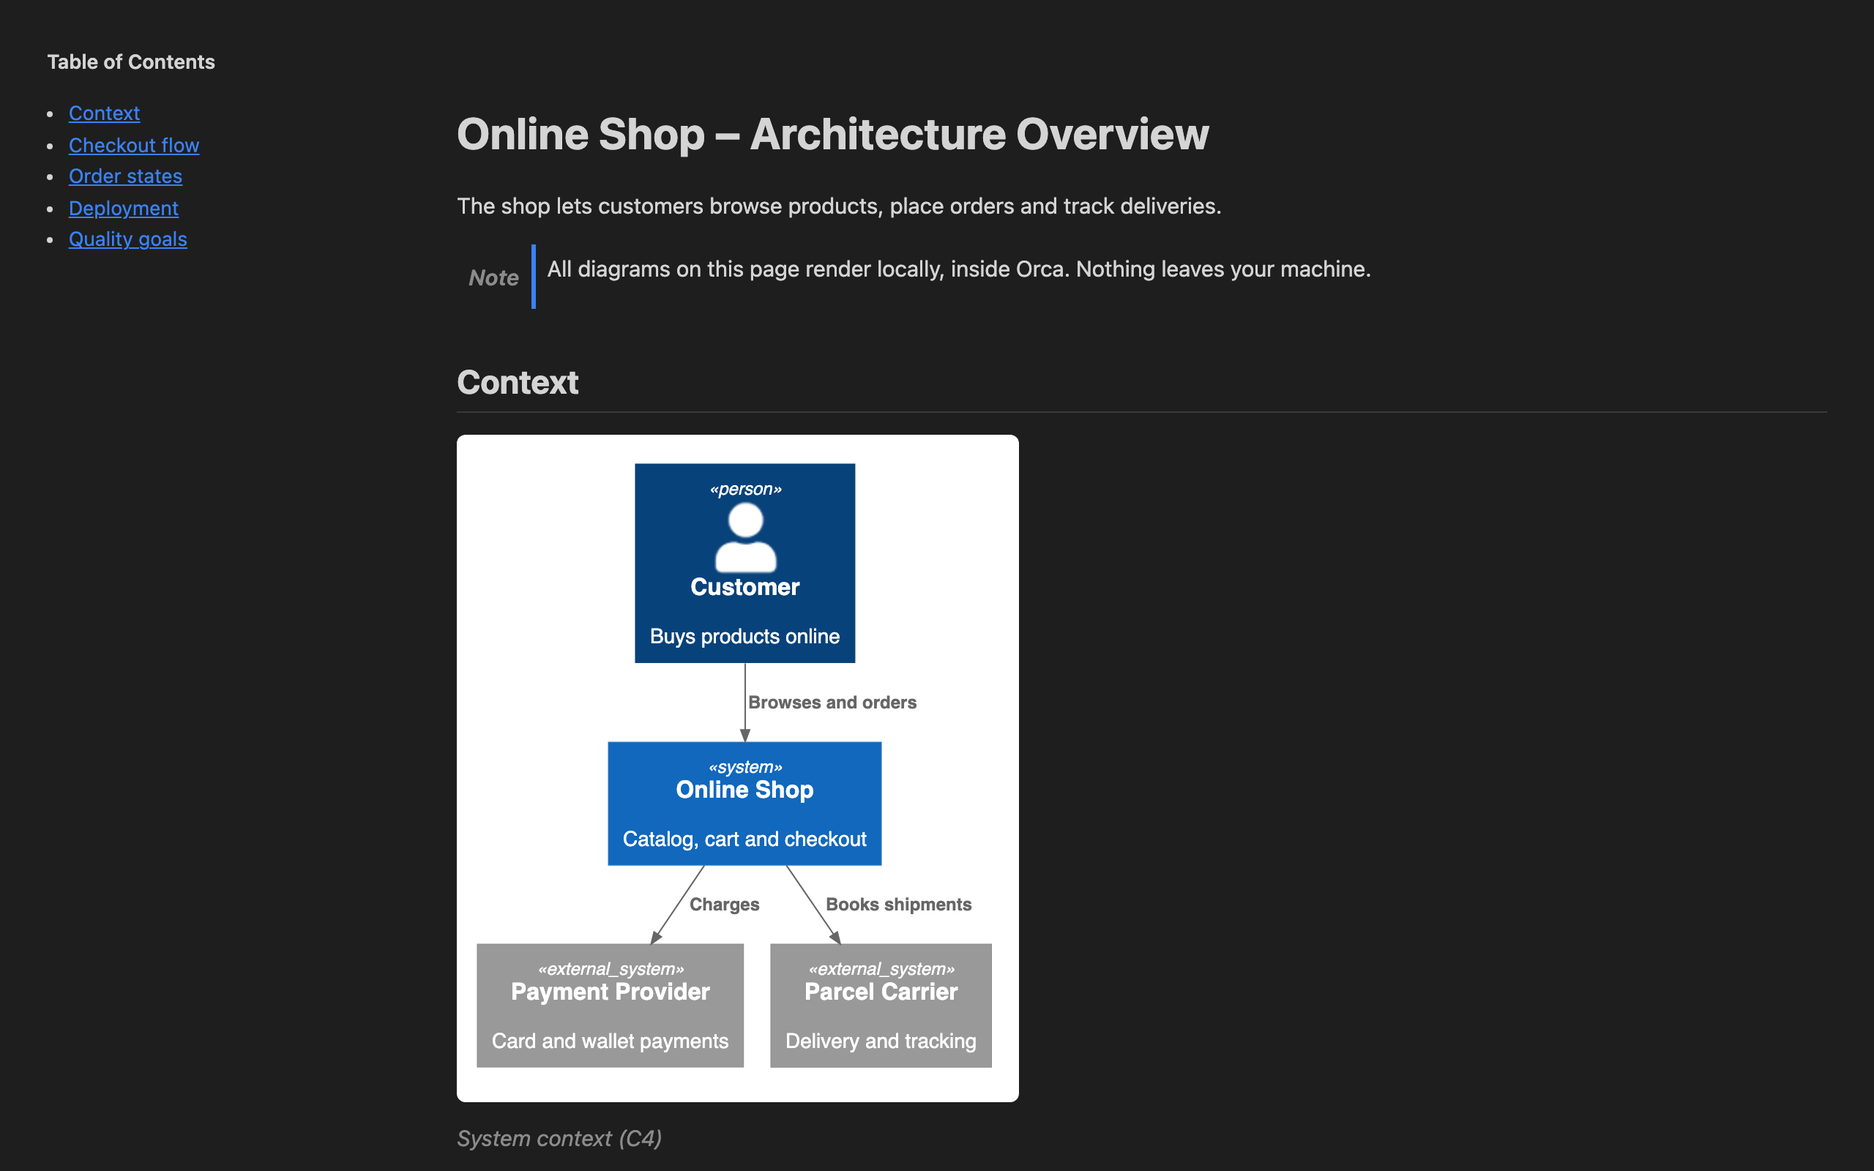
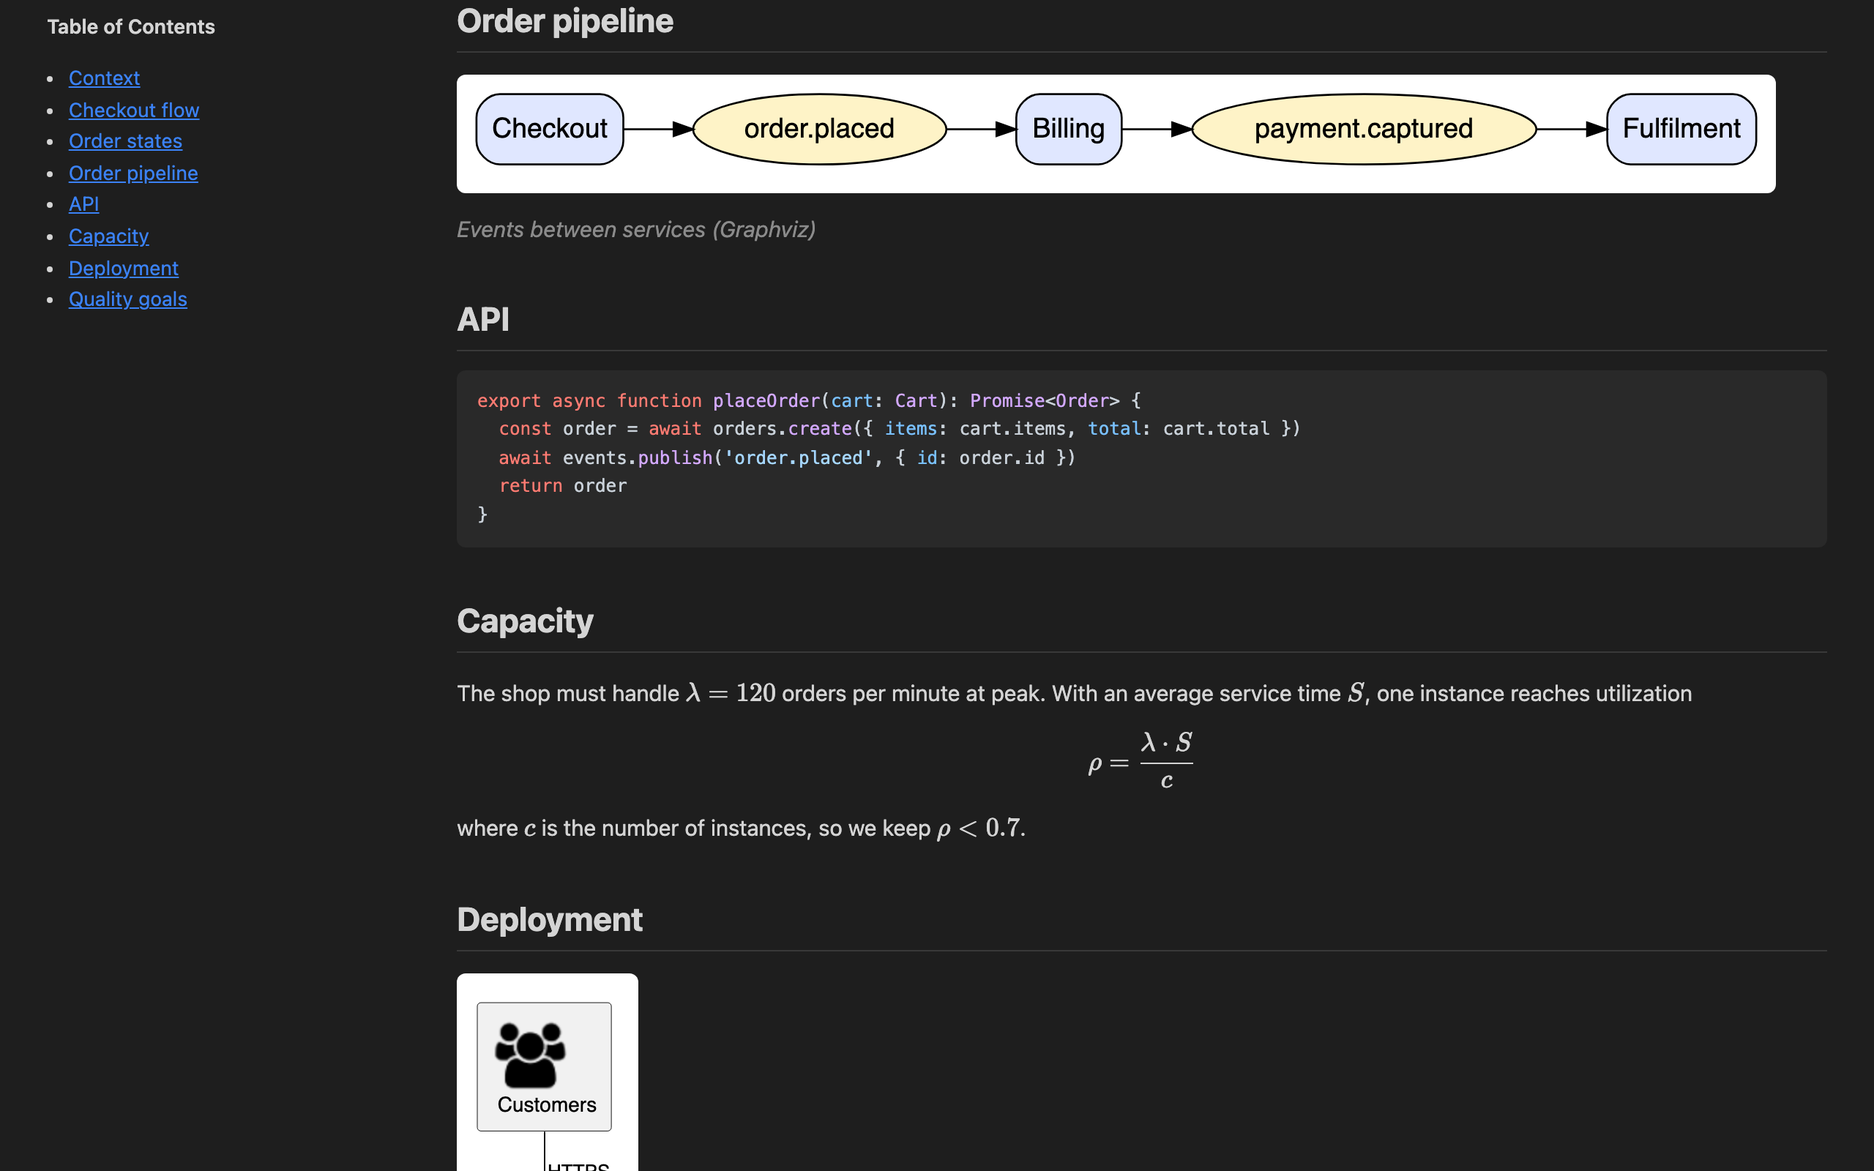
mise tasks for development; demo and spec cover the new formats
- mise.toml: setup, build, test, media and fetch-stdlib tasks
- docs/demo.adoc: Graphviz, highlighted code and math; the dark
  screenshot shows them
- SPEC.md rewritten to describe the current state and decisions

diff --git a/SPEC.md b/SPEC.md
@@ -2,111 +2,207 @@
 
 ## Goal
 
-An Orca plugin that renders AsciiDoc files as easily as possible, including inline PlantUML and Mermaid diagrams, fully offline.
+An Orca plugin that renders AsciiDoc files as easily as possible, with inline diagrams (PlantUML, Mermaid, Graphviz), highlighted code and math. It works fully offline: no server, no Java, and no diagram source leaves the machine.
 
 ## Identity & distribution
 
-- Name: **AsciiDoc Preview – PlantUML & Mermaid**, id `asciidoc-diagrams`, publisher `schowave`
-- License: MIT. Public GitHub repo with topic `orca-plugin`; later an Orca catalog entry
-- `manifestVersion: 2`, `execution: "sandboxed-ui"`, `pluginApi: 1`, `engines.orca: ">=1.4.245"` (custom editors exist since 1.4.245; keep `publisher` in the manifest)
-- Independent of the existing `Mbirepinte/Orca-asciidoc-viewer`, which has no diagram support
+- **Plugin:**
+  - Name: **AsciiDoc Preview – PlantUML & Mermaid**
+  - id `asciidoc-diagrams`; publisher `schowave`, the repository owner
+  - Install key `schowave.asciidoc-diagrams`
+- **Repository:** MIT license, public `github.com/schowave/orca-asciidoc-diagrams`, GitHub topic `orca-plugin`
+- **Manifest:**
+  - `manifestVersion: 2`, `execution: "sandboxed-ui"`, `engines.orca: ">=1.4.245"`, because custom editors exist since 1.4.245
+  - Keep `publisher` while supporting 1.4.245; it can be omitted only from `>=1.4.246`
+- **Layout:** the plugin lives at the repository root, because Orca installs from a Git commit:
+  - `orca-plugin.json`
+  - `editor/index.html`: committed build output
+  - `images/`, `LICENSE`, `THIRD_PARTY_NOTICES.md`
+  - `dist/plugin` mirrors only these files, for Orca's development folders
+- **Distribution:**
+  - **Community catalog / onorca.dev:** it is generated automatically from the topic plus the newest `vX.Y.Z` tag, pinned to that commit and its content hash. There is no PR. Orca auto-updates a release once it has been listed for 12 h. A size review may hold large plugins.
+  - **Git URL install:** `https://github.com/schowave/orca-asciidoc-diagrams#vX.Y.Z`. Orca requires an explicit `#ref` (a tag or a commit); such installs are shown as *Unverified*.
+- **Relation to `Mbirepinte/Orca-asciidoc-viewer`:** independent of it. That plugin has no diagram support; diagrams are the distinguishing feature here.
 
-## Scope (v1)
+## Features
 
-- `contributes.customEditors` for `.adoc`, `.asciidoc` and `.asc`, with `priority: "default"` and `contentKind: "text"`
-- **Read-only view.** Editing happens in Orca's Source view (view toggle). The plugin never calls `orca.document.applyEdit`
-- Live re-render on `orca.document.onDidChange` (works on unsaved changes too):
-  - Debounce of about 250 ms
+- **Opening files:**
+  - `contributes.customEditors` for `.adoc`, `.asciidoc` and `.asc`
+  - `priority: "default"`, `contentKind: "text"`
+- **Read-only:**
+  - Editing happens in Orca's Source view (view toggle)
+  - The plugin never calls `orca.document.applyEdit`
+- **Live updates:** `orca.document.onDidChange` triggers a re-render, including on unsaved changes
+  - Debounced by about 250 ms
+  - Versions already rendered are skipped
   - The scroll position is preserved
-  - Rendered diagrams are cached by source hash
-- AsciiDoc rendering with **asciidoctor.js 4.x**
-- Diagram syntax as in asciidoctor-diagram: `[plantuml]` and `[mermaid]` blocks (`----` delimited, optional title and attributes). `[source,plantuml]` and `[source,mermaid]` are shown as plain code
-- **PlantUML:** `@plantuml/core` (≥ 1.2026.6, MIT; the TeaVM JS build)
-  - Uses the **Smetana layout only**. Do **not** bundle `viz-global.js`: its wasm init fails under the CSP and then breaks graph diagrams instead of falling back to Smetana
-  - Stdlib bundles **C4, kubernetes, k8s, azure, archimate, eip, DomainStory, office, logos and tupadr3** are embedded. They are served lazily via `PLANTUML_STDLIB_LOADER` (decoded only when a diagram includes them). `gcp`, `elastic` and `edgy` are excluded because they declare no license; AWS (`awslib14`, 4.7 MB gzip) does not fit
-  - Any other stdlib produces a clear "library not bundled" error
-- **Mermaid:** 12.x, embedded compressed
-- **Diagram errors:** an error box with the message and the diagram source in its place; the rest of the document still renders
+  - Diagrams are cached by source; failures are cached too
+- **AsciiDoc:** asciidoctor.js 4 in `safe: secure` mode
+- **Diagrams:** asciidoctor-diagram block syntax, `----` delimited, with optional title and attributes. `[source,<lang>]` stays code.
+  - `[plantuml]`:
+    - Rendered by `@plantuml/core` (≥ 1.2026.6, MIT, TeaVM JS build), with the **Smetana layout only**
+    - `@startuml`/`@enduml` are optional
+  - `[mermaid]`: Mermaid 12, `securityLevel: 'strict'`, `suppressErrorRendering: true`
+  - `[graphviz]`:
+    - viz.js 2.1.2: Graphviz 2.40.1 compiled to asm.js, so no wasm is needed
+    - Optional `layout=` (`dot`, `neato`, `fdp`, `sfdp`, `twopi`, `circo`, `osage`, `patchwork`)
+- **PlantUML stdlib:**
+  - Bundled: C4, kubernetes, k8s, azure, archimate, eip, DomainStory, office, logos, tupadr3
+  - Loaded lazily via `PLANTUML_STDLIB_LOADER`
+  - Others produce a clear "library not bundled" error
+  - Excluded:
+    - `gcp`, `elastic`, `edgy`: no declared license
+    - `awslib14`: about 3 MiB, too large for the default build
+  - **Custom builds:** `PLANTUML_STDLIB=a,b` overrides `scripts/stdlib-list.mjs` for `fetch-stdlib.mjs` and `build.mjs`
+- **Syntax highlighting:**
+  - highlight.js with its common languages, applied to `pre.highlight > code[data-lang]`
+  - Asciidoctor runs with `source-highlighter=highlight.js`
+  - GitHub light and dark themes, scoped to `html.dark`
+- **Math (`:stem:`):**
+  - KaTeX, with its woff2 fonts inlined as `data:` URIs
+  - asciimath goes through asciimath2tex first
+  - Delimiters as Asciidoctor emits them: `\$…\$` (asciimath), `\(…\)` and `\[…\]` (latexmath)
+  - Inside `.stemblock` the output is display mode
+- **Diagram errors:** an error box (monospace, line breaks kept) followed by the source. The rest of the document still renders.
 - **Theme:**
-  - The document follows Orca's theme via the `--orca-*` CSS vars and `orca.on('theme')`
-  - Mermaid uses `dark` or `default` to match
-  - PlantUML stays light on its own light surface
-- **TOC:** only when the document sets `:toc:`. With `toc: left` it is a sticky sidebar; otherwise it stays inline
+  - The document follows Orca's theme (`--orca-*` vars, `orca.on('theme')`), and Mermaid follows with `dark`/`default`
+  - PlantUML and Graphviz sit on a light card
+- **Layout:**
+  - Wide diagrams scale down to the column width; small ones are never scaled up
+  - Table cells are left-aligned and respect the `halign-*`/`valign-*` classes
+- **TOC:** only with `:toc:`. `toc: left`/`right` renders a sticky sidebar, which stacks on narrow widths.
 - **Links:**
-  - Internal anchors work
-  - External links and `xref:` to other files are displayed with their target in a tooltip but cannot be followed (the sandbox has no popups and the host API has no open method). This is documented
-- **Wide diagrams** scroll horizontally. No zoom, fullscreen or export in v1
+  - Orca's frame shell cancels every click on `<a href>`. So `href` moves to `data-href`:
+    - Internal anchors (`<<id>>`, TOC) scroll to their target, by click or Enter
+    - External links and `xref:` to other files show their target as a tooltip only
+- **Not in scope:** zoom, fullscreen and export
 
 ## Security
 
-- Sanitize the rendered HTML with DOMPurify. Passthrough HTML is allowed; scripts and event handlers are removed. Reason: a script in a foreign `.adoc` could otherwise call `applyEdit` and modify the open file
-- The plugin never calls `applyEdit`
+- The rendered HTML is sanitized with DOMPurify. Passthrough HTML is allowed; scripts and event handlers are removed. Without this, a script in a foreign `.adoc` could call `applyEdit` and modify the open file.
+- The plugin never calls `applyEdit`.
+- Payloads are executed as inline scripts. They come only from the plugin's own build, never from the document.
 
-## Known limitations (documented in the README)
+## Known limitations
 
-The frame has no file system, no network and no wasm. As a result:
+The frame has no file system, no network and no wasm.
 
-- `include::` directives render as a visible placeholder ("include not resolvable: <path>")
-- Relative images render as a placeholder with their alt text. `data:` images and rendered diagrams work
-- PlantUML `!include` of local files is unsupported
+| What | Behaviour |
+| --- | --- |
+| `include::` | A visible placeholder ("Include not resolvable in the preview: <path>"), via an include processor |
+| Images | Anything that is not a `data:` URI becomes a placeholder showing the alt text and path |
+| PlantUML `!include` of local files | Unsupported |
+| Libraries | Cannot be installed at runtime: the frame has no storage, and frames of different plugins cannot talk to each other. A future Orca frame↔worker channel (stablyai/orca#36429, panels only so far) could change that |
 
-## Platform constraints (verified against Orca 1.4.245 source)
+## Platform constraints (verified against Orca 1.4.245)
 
-- The frame is `<iframe sandbox="allow-scripts">` with this CSP:
+- **Frame:** `<iframe sandbox="allow-scripts">` (srcdoc) with this CSP:
   `default-src 'none'; connect-src 'none'; script-src 'unsafe-inline'; style-src 'unsafe-inline'; img-src data:; font-src data:; base-uri 'none'; form-action 'none'`
-- What is blocked:
+- **Blocked:**
   - `eval` and `new Function`
   - WebAssembly
   - `fetch` and Workers
   - External scripts
-- So all JS and CSS must be inlined into **one** entry HTML
-- Limits: 10 MiB for the entry HTML, 50 MiB and 2000 files for the plugin
-- Frame API:
-  - `orca.document.get()` returns `{ version, readOnly, content: { kind: 'text', text } }`
-  - `orca.document.onDidChange(cb)`
+  - `DecompressionStream('brotli')`; only gzip and deflate are available
+- **Allowed:**
+  - Inline `<script>` elements, including ones inserted at runtime
+  - `Blob`, `Response`, `DecompressionStream('gzip')`
+  - `data:` fonts and images
+- **Limits:**
+  - 10 MiB for the entry HTML
+  - 50 MiB and 2000 files for the whole plugin
+  - Listing images: icon ≥ 128 px, square, ≤ 256 KB; cover ≥ 800×500, ≤ 1 MB; screenshots ≥ 1280×800, ≤ 1.5 MB
+  - Orca shows the cover cropped to a wide banner, roughly its middle third
+- **Frame API:**
+  - `orca.document.get()`
+  - `orca.document.onDidChange(cb)`: delivers the current document right away, then each change
   - `orca.on('theme', cb)`
+  - The theme also arrives as the `light`/`dark` class on `<html>`
 
-## Tech & tests
+## Architecture
 
-- TypeScript plus esbuild produce a single inlined `editor/index.html`
-- Library versions are pinned
-- The build fails if the entry HTML exceeds **9.5 MiB** (estimate: ~8–9 MiB)
-- Inlining details for `@plantuml/core`:
-  - Replace the trailing ESM `export` with a global
-  - Escape `</script` and `<!--`
-  - Make sure the page is decoded as UTF-8
-- Playwright tests run in a harness that reproduces Orca's frame exactly (srcdoc, sandbox, CSP meta)
-- Manual check in real Orca: Settings → Plugins → Development folders
+- **`editor/index.html`:** one self-contained file of about **7 MiB**. Its contents:
+  - Inline CSS and `<div id="content">`
+  - Inert `<script type="application/x-payload" data-payload="…">` blocks holding base64-encoded, compressed code
+  - The only uncompressed script, `src/bootstrap.ts`
+- **Startup:**
+  - The bootstrap inflates the **`app`** payload (gzip) natively and runs it
+  - `app` contains asciidoctor.js, DOMPurify, the preview code and the brotli decoder
+- **On demand (`src/payloads.ts`):** every other payload is **brotli** (quality 11, 16 MiB window), decoded by the pure-JS `brotli` decoder (90 KB) and run once. It is about 25 % smaller than gzip. The payloads:
+  - `plantuml`: the engine plus `themes.js`, run in its own function scope
+  - `mermaid`
+  - `graphviz`
+  - `hljs`
+  - `katex`: KaTeX with its fonts, plus asciimath2tex
+  - `stdlib:<lib>`, one per PlantUML stdlib library
+- **First render** (headless Chromium, including page setup):
+  - ~0.4 s for text only
+  - ~0.6 s with PlantUML or Mermaid
+  - ~0.85 s with tupadr3
 
-## Plan
+## Tech, tests and maintenance
 
-1. **Spike:** a minimal custom editor in real Orca 1.4.245 that renders one PlantUML and one Mermaid block inside an `.adoc`. This is the main risk, because so far it is only verified in headless Chrome
-2. Full v1 per this spec
-3. README, test suite and release; then the catalog
+- **Build:**
+  - TypeScript and esbuild
+  - fflate for gzip, because `node:zlib` gzip differs between platforms
+  - Node's brotli for the other payloads
+- **Size guard:** the build fails above **9.5 MiB**. Size history:
+  - 7.31 MiB for the spike
+  - 8.29 MiB with three stdlib libraries
+  - 8.19 MiB after gzip, with ten libraries
+  - 5.96 MiB after brotli
+  - 6.96 MiB with Graphviz, highlight.js and KaTeX
+- **Tests:** `tests/sandbox-harness.mjs` runs headless Chromium in a replica of Orca's frame (`tests/orca-frame.mjs`):
+  - The replica has the same srcdoc, sandbox, CSP and link-click policy as Orca, and a mocked `window.orca` that delivers on subscribe like Orca
+  - The run fails on:
+    - CSP violations, errors, or stray elements outside `#content`
+    - Missing or wrongly failed diagrams
+    - Highlighting, math or Graphviz not rendered
+    - Overflowing or upscaled diagrams
+    - A broken link scroll
+    - A script surviving sanitization, or a call to `applyEdit`
+- **Media:** `scripts/media.mjs` generates the icon, cover, screenshots and demo GIF from the real build in the same replica frame.
+- **Tooling:**
+  - `mise.toml` pins Node and defines the tasks (`setup`, `test`, `build`, `media`, `fetch-stdlib`)
+  - `mise.lock` holds checksums for all platforms
+  - CI uses `jdx/mise-action`
+- **Dependencies:** Renovate (GitHub App) covers npm, mise and GitHub Actions
+  - Patch and minor updates automerge once CI is green
+  - Major updates wait for review
+  - The PlantUML stdlib bundles come from plantuml.github.io and are not in npm; the release workflow refreshes them
+- **Releases:** `.github/workflows/release.yml` runs weekly on Mondays, or by dispatch with `patch`/`minor`/`major`:
+  1. Refresh the stdlib bundles
+  2. Build and test
+  3. If the build differs from the committed one (or on a dispatched minor/major), bump the version and changelog, commit, tag and create a GitHub release
+  - `editor/index.html` on `main` is therefore the last *released* build. CI tests the build but does not require a committed rebuild in every PR.
 
-## Implementation notes (from the spike)
+## Implementation notes
 
-- asciidoctor.js 4 is a native ESM port (no Opal) and runs under the CSP
-  - `convert()` and `reader.readLines()` are async
-  - Block processors use `reader.getLines()`
-  - Its guarded `import('node:…')` calls are resolved to a throwing stub at build time; left external, they cause CSP violations
-- DOMPurify drops attributes whose value contains `-->`, so diagram sources must not travel in `data-*` attributes. They are kept in a side table, indexed by placeholder
-- Orca's frame shell cancels **every** click on `<a href>`. For internal anchors (`<<id>>`, TOC) we need our own click handler that scrolls to the target
-- Entry size: 7.31 MiB for the spike, 8.29 MiB with the C4, Kubernetes and Azure stdlib bundles
-- Large scripts are embedded **gzip+base64** in inert `<script type="application/x-gzip-base64">` blocks. On first use they are decompressed with `DecompressionStream` (via `Blob`/`Response`, no fetch) and executed as inline `<script>` elements, which the CSP allows. This cut the base from ~7.3 to ~4 MiB and let tupadr3 fit. Entry: 7.27 MiB with ten stdlib libraries
-- The PlantUML engine must run in its own function scope: as a classic script its top-level names (e.g. `CSS`) shadow browser globals
-- Payload encoding:
-  - The app bundle is gzip, inflated by a tiny uncompressed bootstrap via `DecompressionStream`
-  - All other payloads are brotli (quality 11, 16 MiB window), decoded by the pure-JS `brotli` decoder (90 KB) because the frame's `DecompressionStream` has no brotli
-  - Entry size: 5.96 MiB, down from 8.19 MiB
-  - First render (headless Chromium): ~0.4 s for text only, ~0.6 s with PlantUML or Mermaid, ~0.85 s with tupadr3
+- **asciidoctor.js 4:**
+  - It is a native ESM port (no Opal) and runs under the CSP
+  - `load()`/`convert()` and `reader.readLines()` are async; block processors use `reader.getLines()`
+  - Its guarded `import('node:…')` calls resolve to a throwing stub at build time; left external, they cause CSP violations
+- **DOMPurify:** it drops attributes whose value contains `-->`, so diagram sources live in a side table indexed by placeholder, not in `data-*`.
+- **The PlantUML engine:**
+  - Must run in its own function scope: as a classic script, its top-level names (for example `CSS`) shadow browser globals
+  - Do not bundle its `viz-global.js`: under the CSP its wasm init fails and breaks graph diagrams instead of falling back to Smetana
+- **Mermaid:**
+  - On parse errors it appends an error SVG to `<body>` unless `suppressErrorRendering` is set
+  - Its inline `max-width` must stay in force, or small diagrams are scaled up
+- **highlight.js themes:** strip CSS comments before scoping selectors to light/dark, or the leading rule escapes the scope.
+- **Orca development folders:**
+  - Overwrite the build in place, never delete the folder, or Orca's watcher loses it
+  - A rebuild may still need a reinstall and reopening the tab
 
-## Additional renderers (after 1.0.0)
+## Decisions
 
-Each renderer is its own brotli payload and loads on first use:
-
-- **Syntax highlighting:** highlight.js (common languages, GitHub light and dark themes scoped to `html.dark`), applied to `pre.highlight > code[data-lang]`. Asciidoctor runs with `source-highlighter=highlight.js`.
-- **Math (`:stem:`):** KaTeX, with its woff2 fonts inlined as `data:` URIs. asciimath goes through asciimath2tex first. Delimiters as Asciidoctor emits them: `\$…\$` (asciimath), `\(…\)` and `\[…\]` (latexmath). Inside `.stemblock` the output is display mode.
-- **Graphviz:** `[graphviz]` blocks with an optional `layout=`, rendered by viz.js 2.1.2. That is asm.js Graphviz 2.40.1, so no wasm is needed. It sits on a light card like PlantUML.
-- **Custom stdlib selection:** `PLANTUML_STDLIB=a,b` overrides `scripts/stdlib-list.mjs` for both `fetch-stdlib.mjs` and `build.mjs`.
-- **Entry size:** 6.96 MiB.
+| Topic | Decision |
+| --- | --- |
+| Scope | Read-only preview, default view for `.adoc`, published as a separate plugin rather than contributed upstream |
+| PlantUML | Engine in the browser with Smetana; no server and no Java; no Graphviz layout for PlantUML |
+| Stdlib | A broad default set (licensed libraries only); custom selection via `PLANTUML_STDLIB` for anything else, e.g. AWS |
+| Unresolvable content | `include::` and images become placeholders; no local preview server |
+| Security | Sanitize everything; never write to the document |
+| Size | Compress the embedded code (A + B); no base122 encoding, no trimming of tupadr3 |
+| Extra formats | Syntax highlighting, KaTeX math and Graphviz. WaveDrom, Nomnoml, Bytefield and BPMN only on request. D2, Svgbob, Pikchr, BlockDiag, Structurizr and Vega are impossible in the sandbox |
+| Maintenance | Renovate with automerge for patch and minor updates; weekly automatic patch releases through the community catalog |

diff --git a/README.md b/README.md
@@ -161,14 +161,14 @@ Design decisions are in [SPEC.md](SPEC.md).
 
 ## Development
 
-Tool versions are pinned in [`mise.toml`](mise.toml), with checksums in `mise.lock`. CI uses the same files, so local and remote builds run on the same Node.
+Tool versions and tasks live in [`mise.toml`](mise.toml), with checksums in `mise.lock`. CI uses the same files, so local and remote builds run on the same Node.
 
 ```sh
-mise install           # installs the pinned Node (https://mise.jdx.dev)
-npm ci
-npx playwright install chromium
-npm test               # build + render the fixtures in headless Chromium inside a replica of Orca's frame
-npm run media          # regenerate images/ and docs/media/demo.gif from the build
+mise run setup         # once: pinned Node, npm packages, headless Chromium for the tests (https://mise.jdx.dev)
+mise run test          # build + render the fixtures in headless Chromium inside a replica of Orca's frame
+mise run build         # build only: editor/index.html and dist/plugin
+mise run media         # regenerate images/ and docs/media/demo.gif from the build
+mise tasks             # list all tasks
 ```
 
 | Path | Content |
